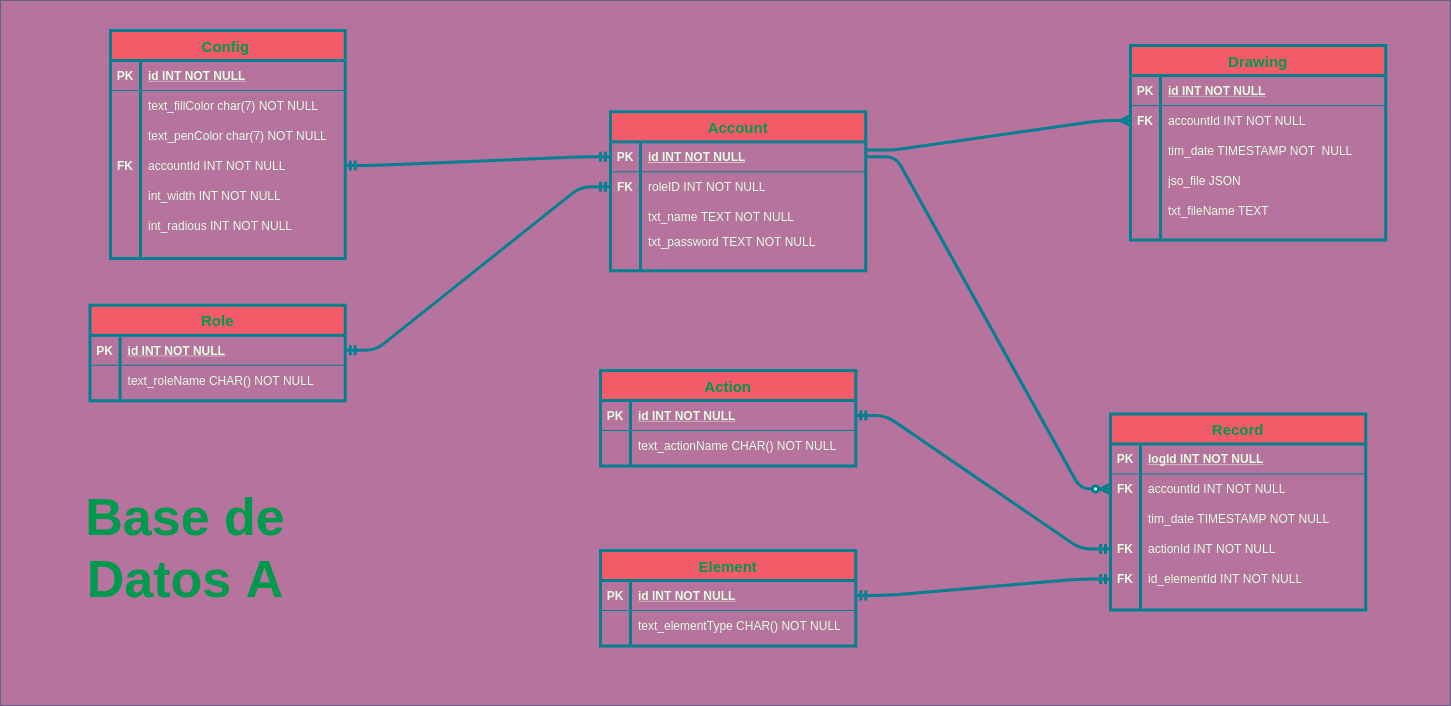
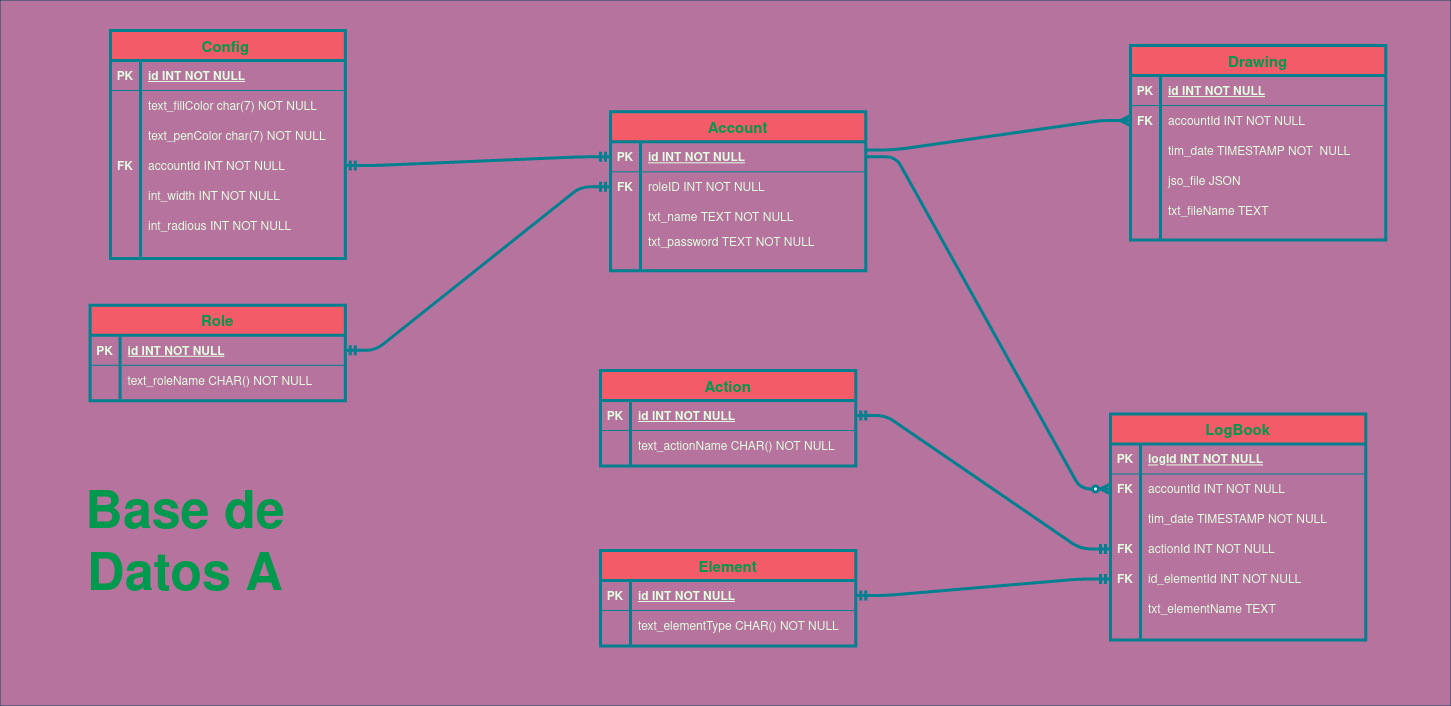
mejoras en autenticacion commit

diff --git a/Documentación de Análisis/bitacora.md b/Documentación de Análisis/bitacora.md
@@ -43,3 +43,7 @@ el programa.
 
 - (Caleb y Josué): Se crearón más Triggers para los otros eventos existentes mencionados en la definición del proyecto. Asi como la documentación del los scripts SQL.
 
+## Miercoles 9 de Diciembre
+
+- (Caleb y Josué): Se agregó el campo "txt_elementName" en la bitacora de la base A, esto con la intención de obtener una tabla de registros más detallada. Asímismo se logró hacer una comparación de contraseña más exacta (tomando en cuenta las mayusculas y minusculas).
+
